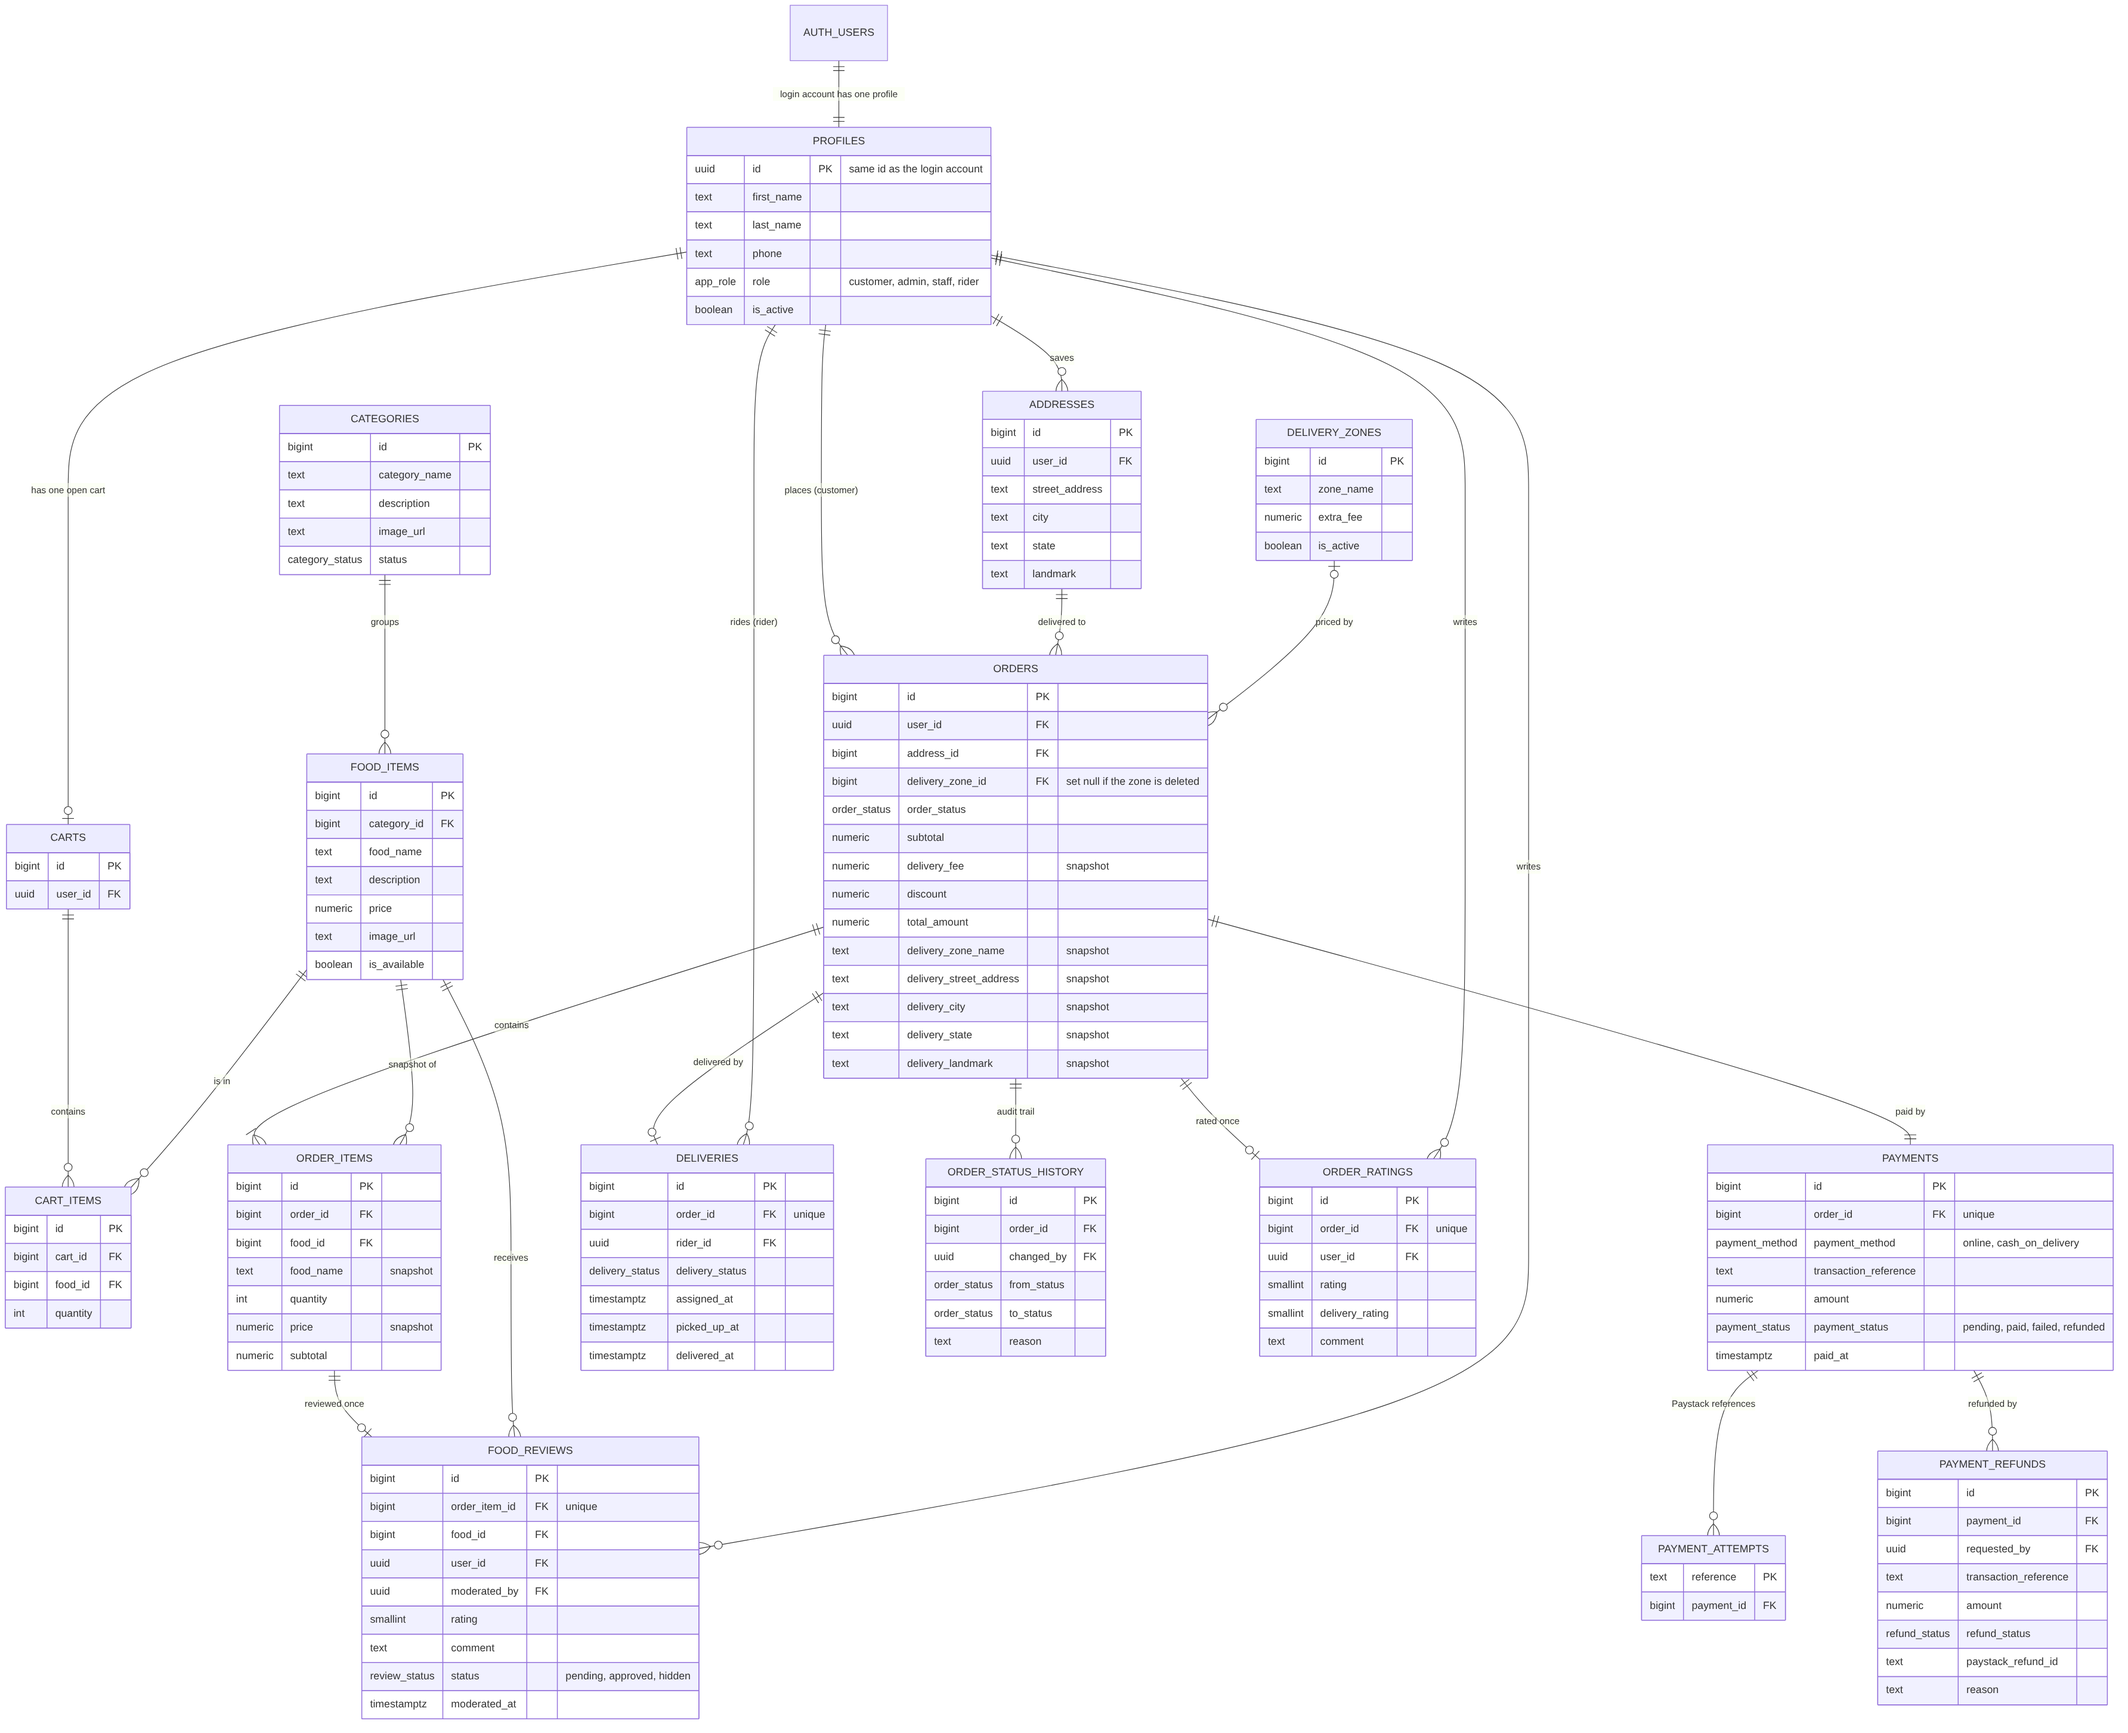
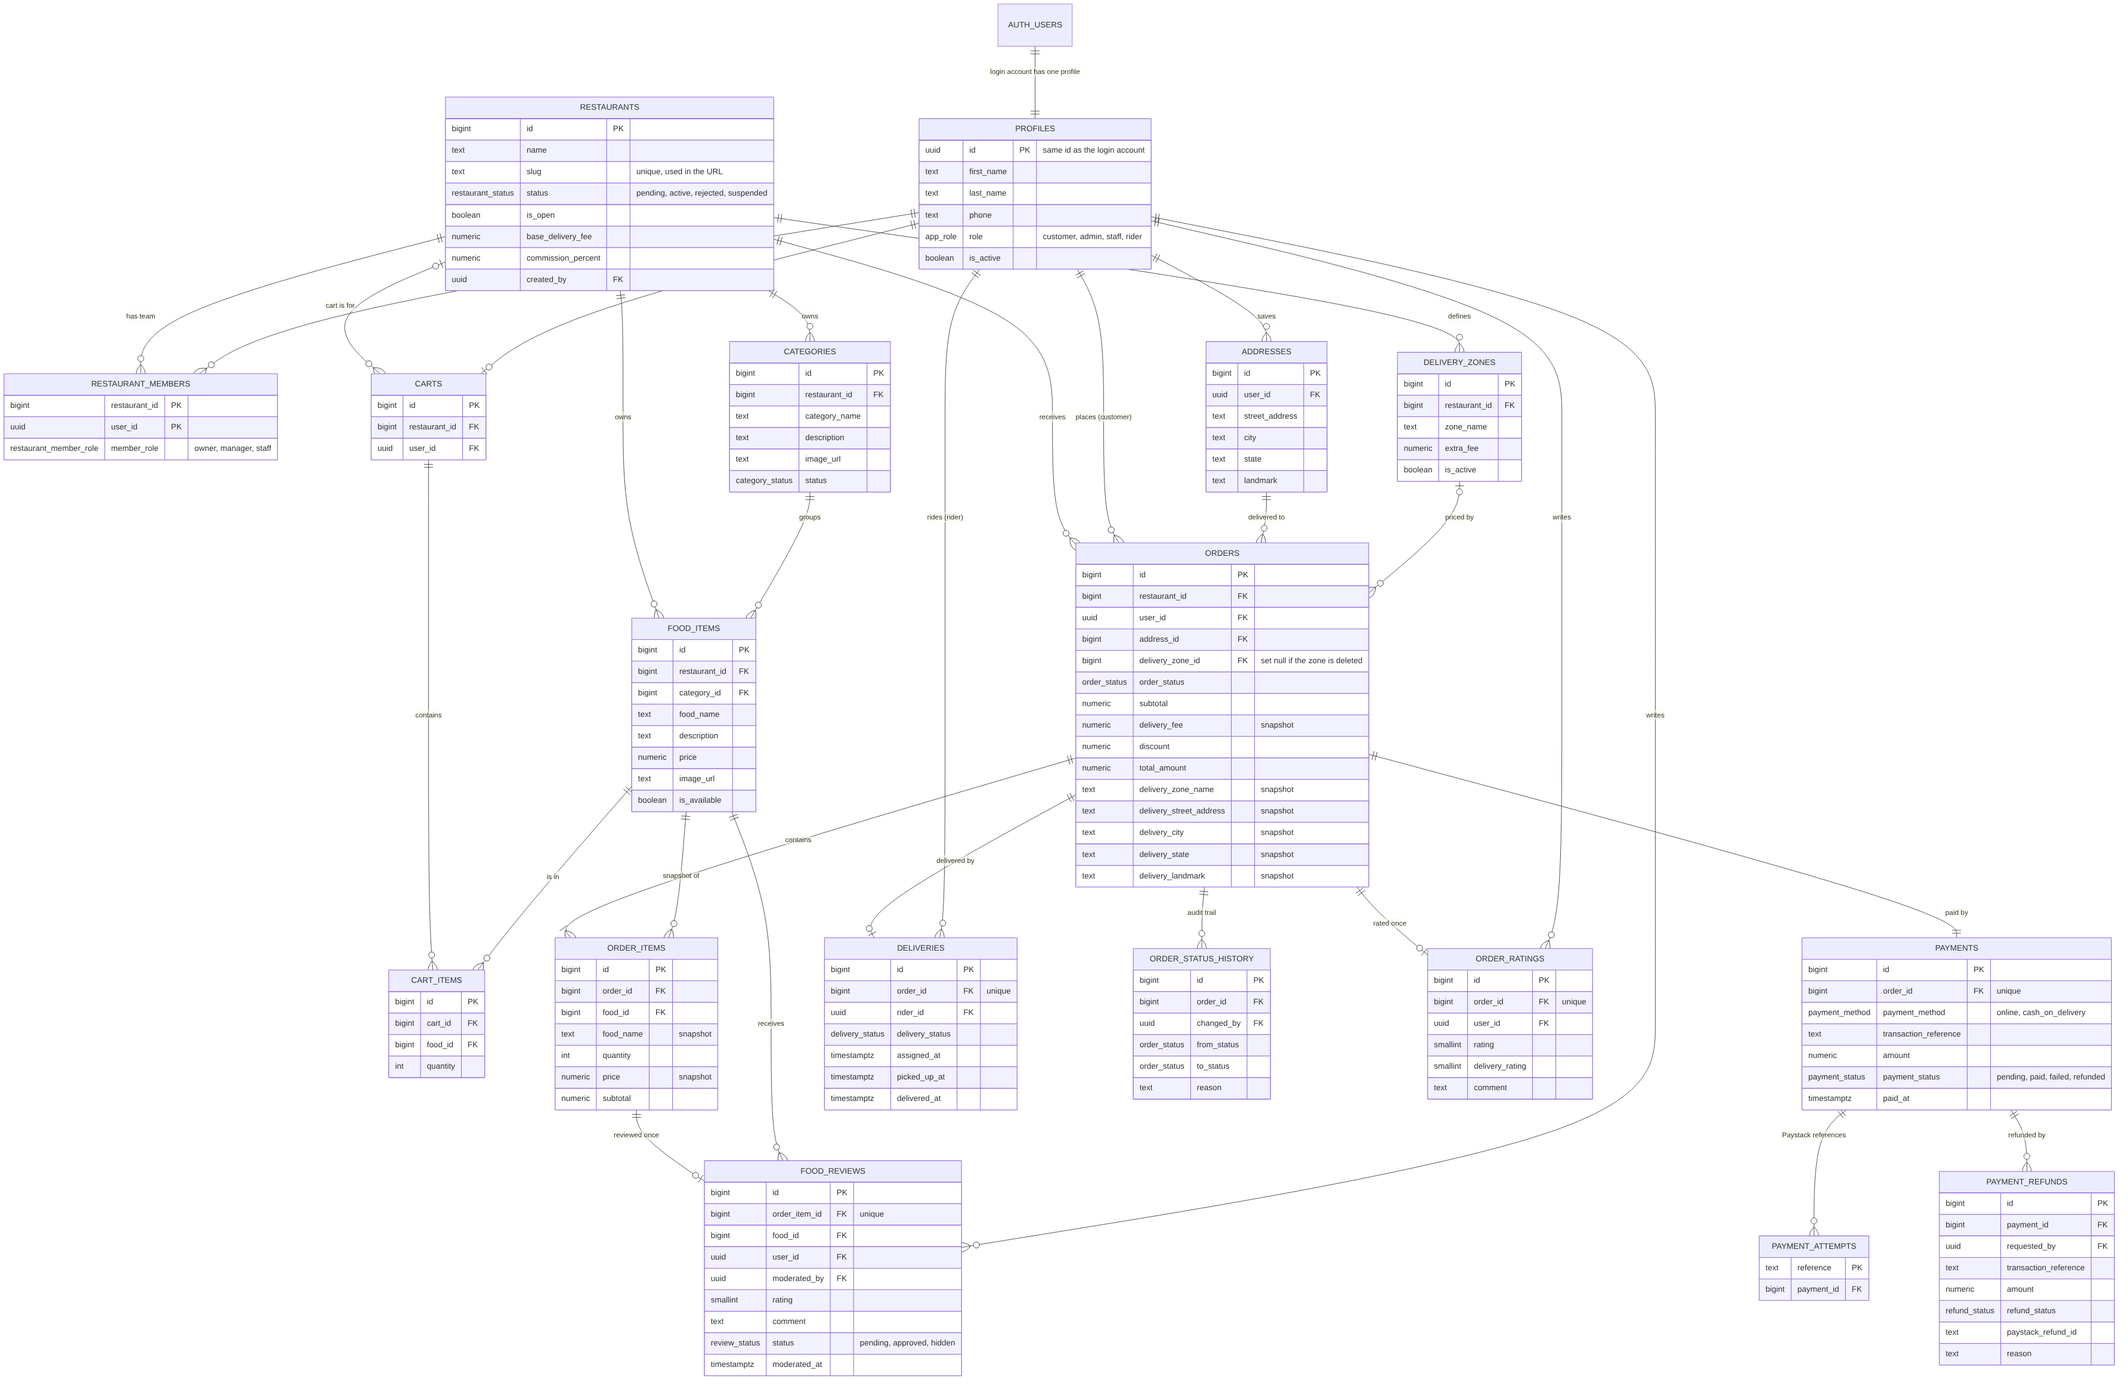
V2 Phase 1: tenancy foundation (restaurants, members, restaurant_id backfill, composite FKs, RLS) + tests
Claude-Session: https://claude.ai/code/session_017GpG52JCr3zLJDC2mQsaFJ

diff --git a/docs/V2_ROADMAP.md b/docs/V2_ROADMAP.md
@@ -50,10 +50,10 @@ verification beyond admin approval, automated bank payouts.
 
 ## Phases
 
-### Phase 1: Tenancy foundation (database only, no visible change)
+### Phase 1: Tenancy foundation (database only, no visible change) - DONE 2026-11-11
 - `restaurants` (name, slug, description, logo, phone, address, is_open, status `pending | active | rejected | suspended`, review reason, base_delivery_fee, commission_percent).
 - `restaurant_members`, helper functions `private.is_member(restaurant_id)` and `private.can_manage(restaurant_id)`.
-- Add `restaurant_id` to `categories`, `food_items`, `delivery_zones`, `orders`, `carts`; create "Restaurant #1"; backfill; set `NOT NULL`.
+- Add `restaurant_id` (temporary `DEFAULT 1` keeps v1 working until Phase 2) to `categories`, `food_items`, `delivery_zones`, `orders`, `carts`; create "Restaurant #1"; backfill; set `NOT NULL`.
 - Move the v1 staff users into `restaurant_members` for Restaurant #1.
 - Test: v1 SQL tests still pass; new tests for the helpers and the backfill.
 

diff --git a/supabase/tests/README.md b/supabase/tests/README.md
@@ -10,6 +10,9 @@ anything is public, privacy of order ratings, and that nobody can write the tabl
 `notifications.test.sql` (38 checks) covers the order emails: who is queued for which event, no duplicates, nothing for
 test addresses, locked-down queue access, and the sender's lease and retry rules. No real email is sent (it is rolled back).
 
+`tenancy_foundation.test.sql` (44 checks) covers version 2 Phase 1: the Restaurant #1 backfill, restaurant and team constraints,
+cross-restaurant foreign keys, the membership helper functions, who can see pending restaurants, and that v1 still works.
+
 **Run any file:** paste the whole file into the Supabase SQL editor and run it. Everything happens inside one transaction that
 is rolled back at the end, so no data is kept. The SQL editor shows an "error" that starts with `TEST REPORT`: that
 message is the report. `FAILURES: 0` means everything passed; any line starting with `FAIL` tells you what broke.

diff --git a/docs/ER_DIAGRAM.md b/docs/ER_DIAGRAM.md
@@ -17,4 +17,7 @@ Not drawn: `created_at` / `updated_at` columns, and the `private` schema (`priva
 - **`payments`, `deliveries`, `order_ratings` are 1:1 with `orders`** (UNIQUE `order_id`); `food_reviews` is 1:1 with `order_items`.
 - **`order_status_history`** records every status change and who made it.
 - **`payment_attempts`** maps each Paystack reference back to its payment, so retries and webhooks match the right order.
+- **Version 2 tenancy (Phase 1):** `restaurants` and `restaurant_members` exist, and menu, zones, orders and carts carry `restaurant_id`.
+  Composite foreign keys keep food inside its own restaurant's categories and orders inside their own restaurant's areas.
+  Existing data belongs to Restaurant #1. The rules are not enforced per restaurant yet (Phase 2).
 - **`orders.delivery_zone_id` is `ON DELETE SET NULL`**: a zone can be deleted while old orders keep its name and fee.
